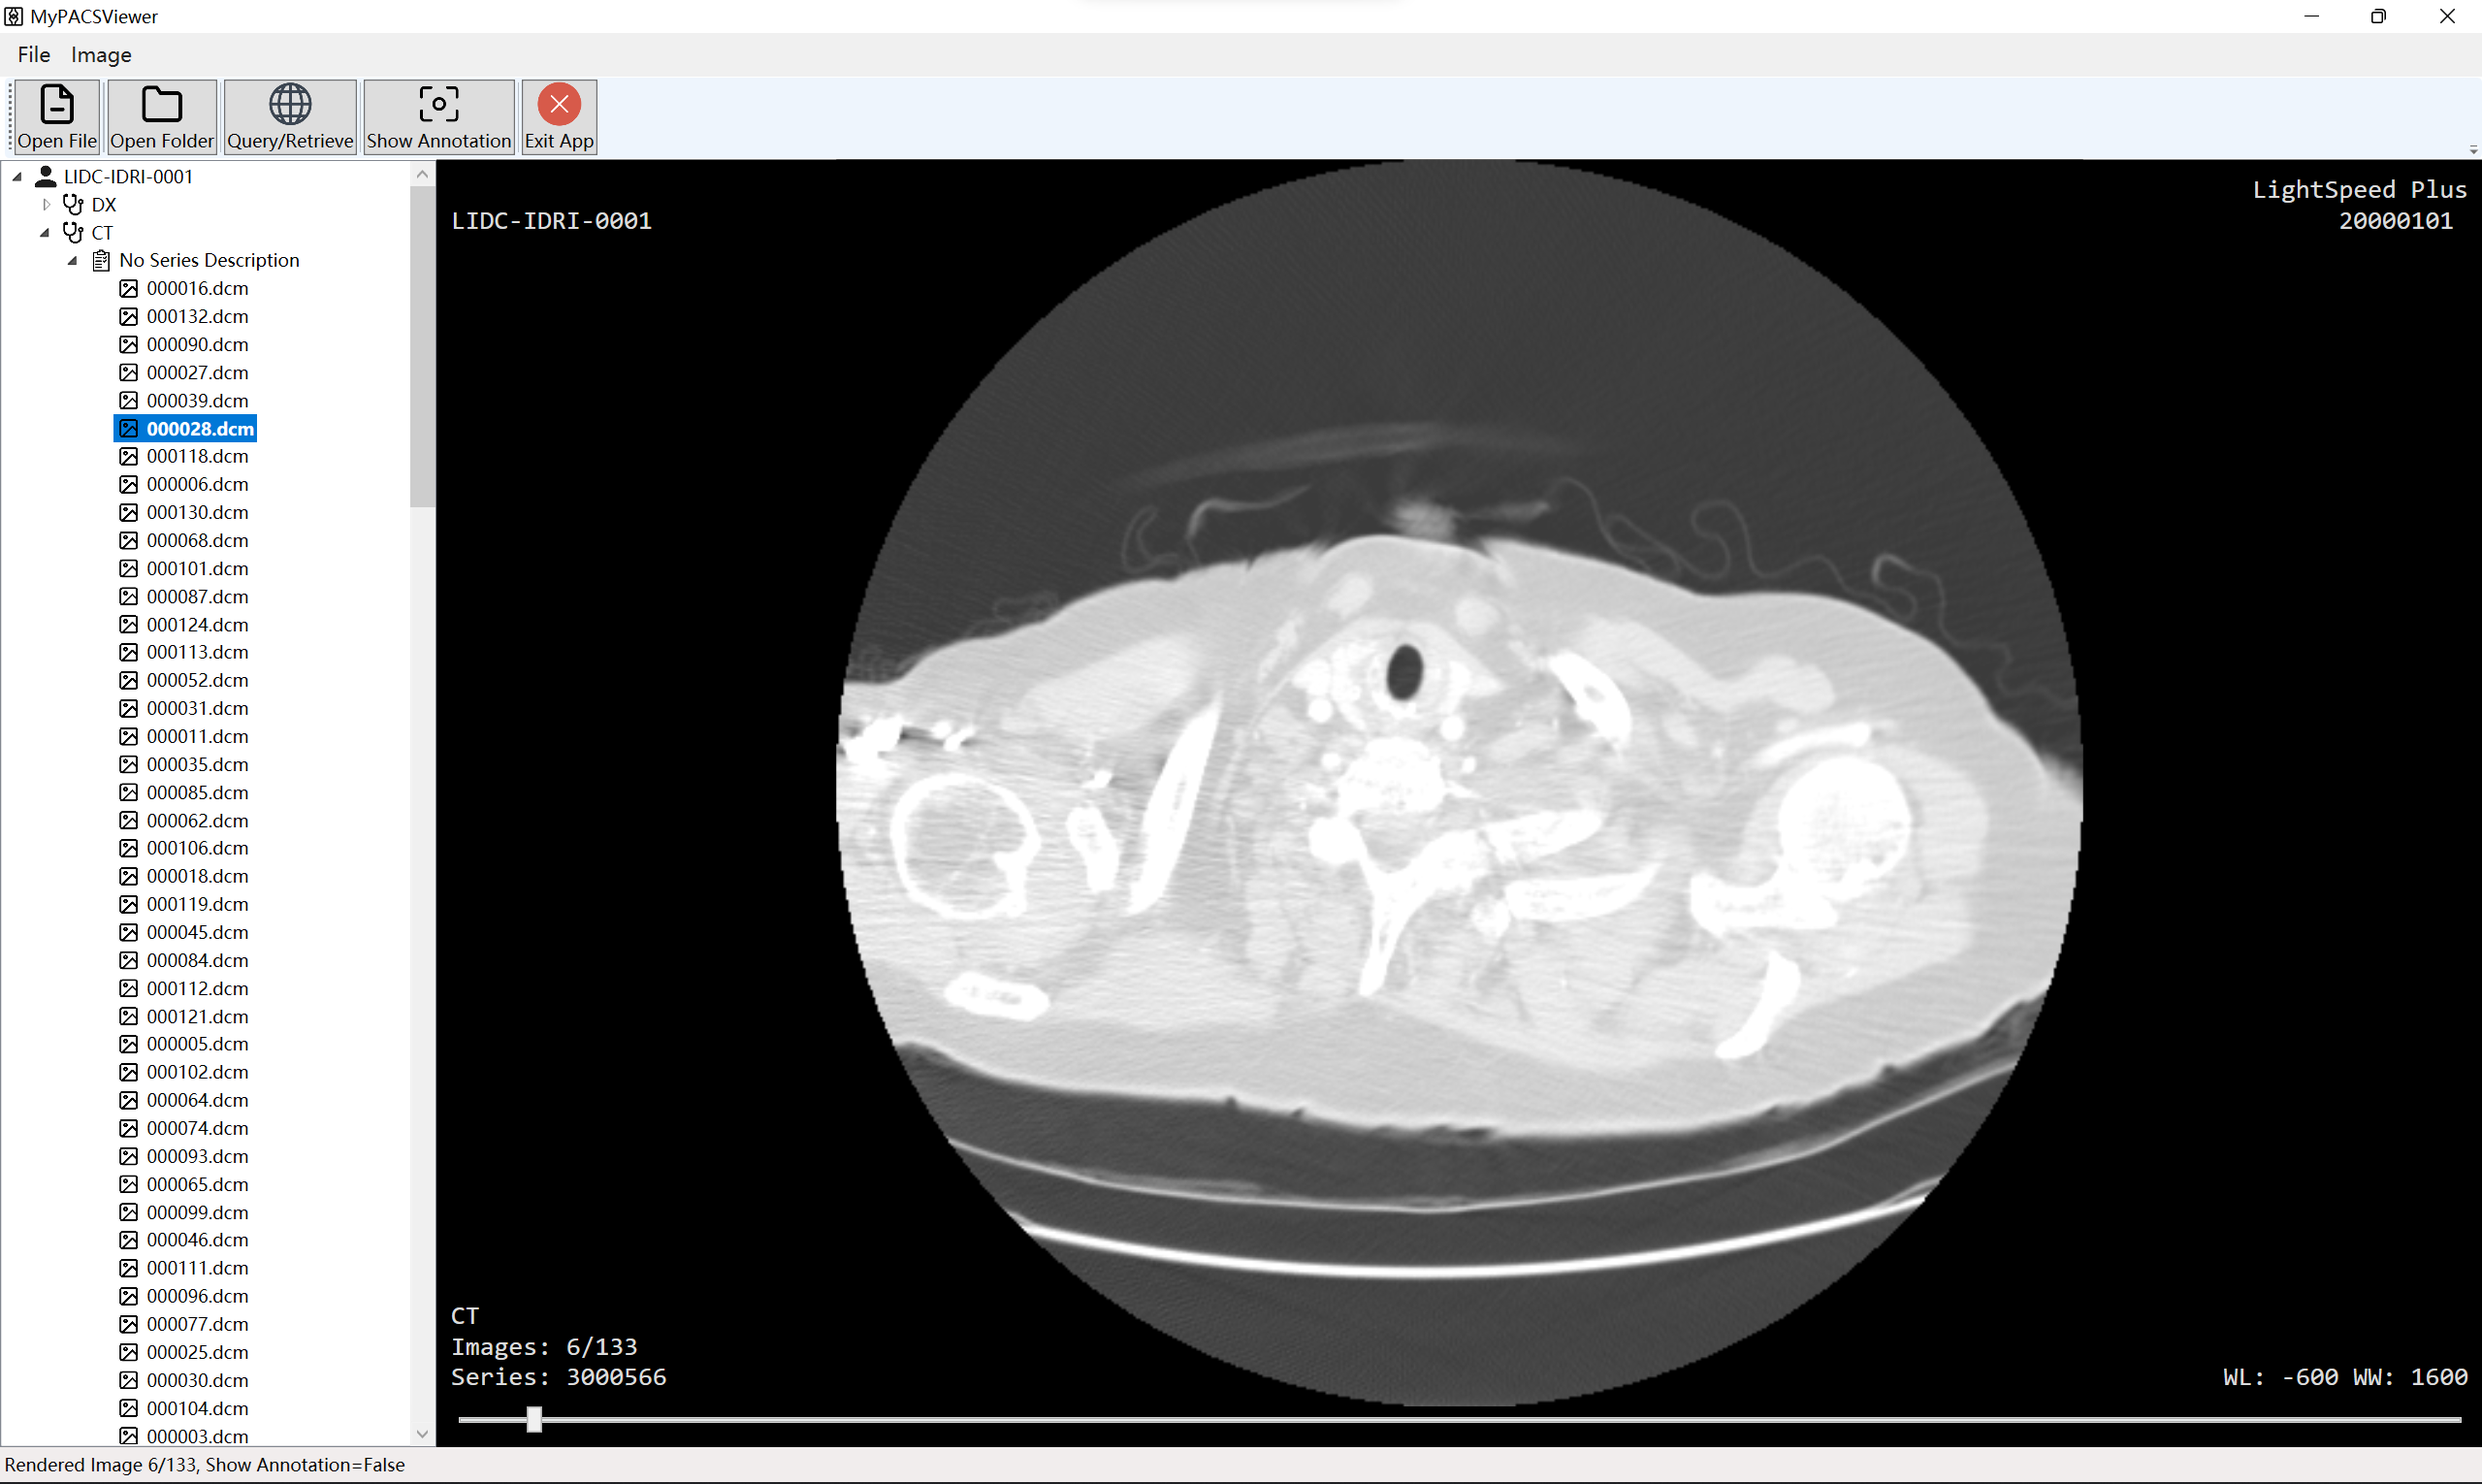
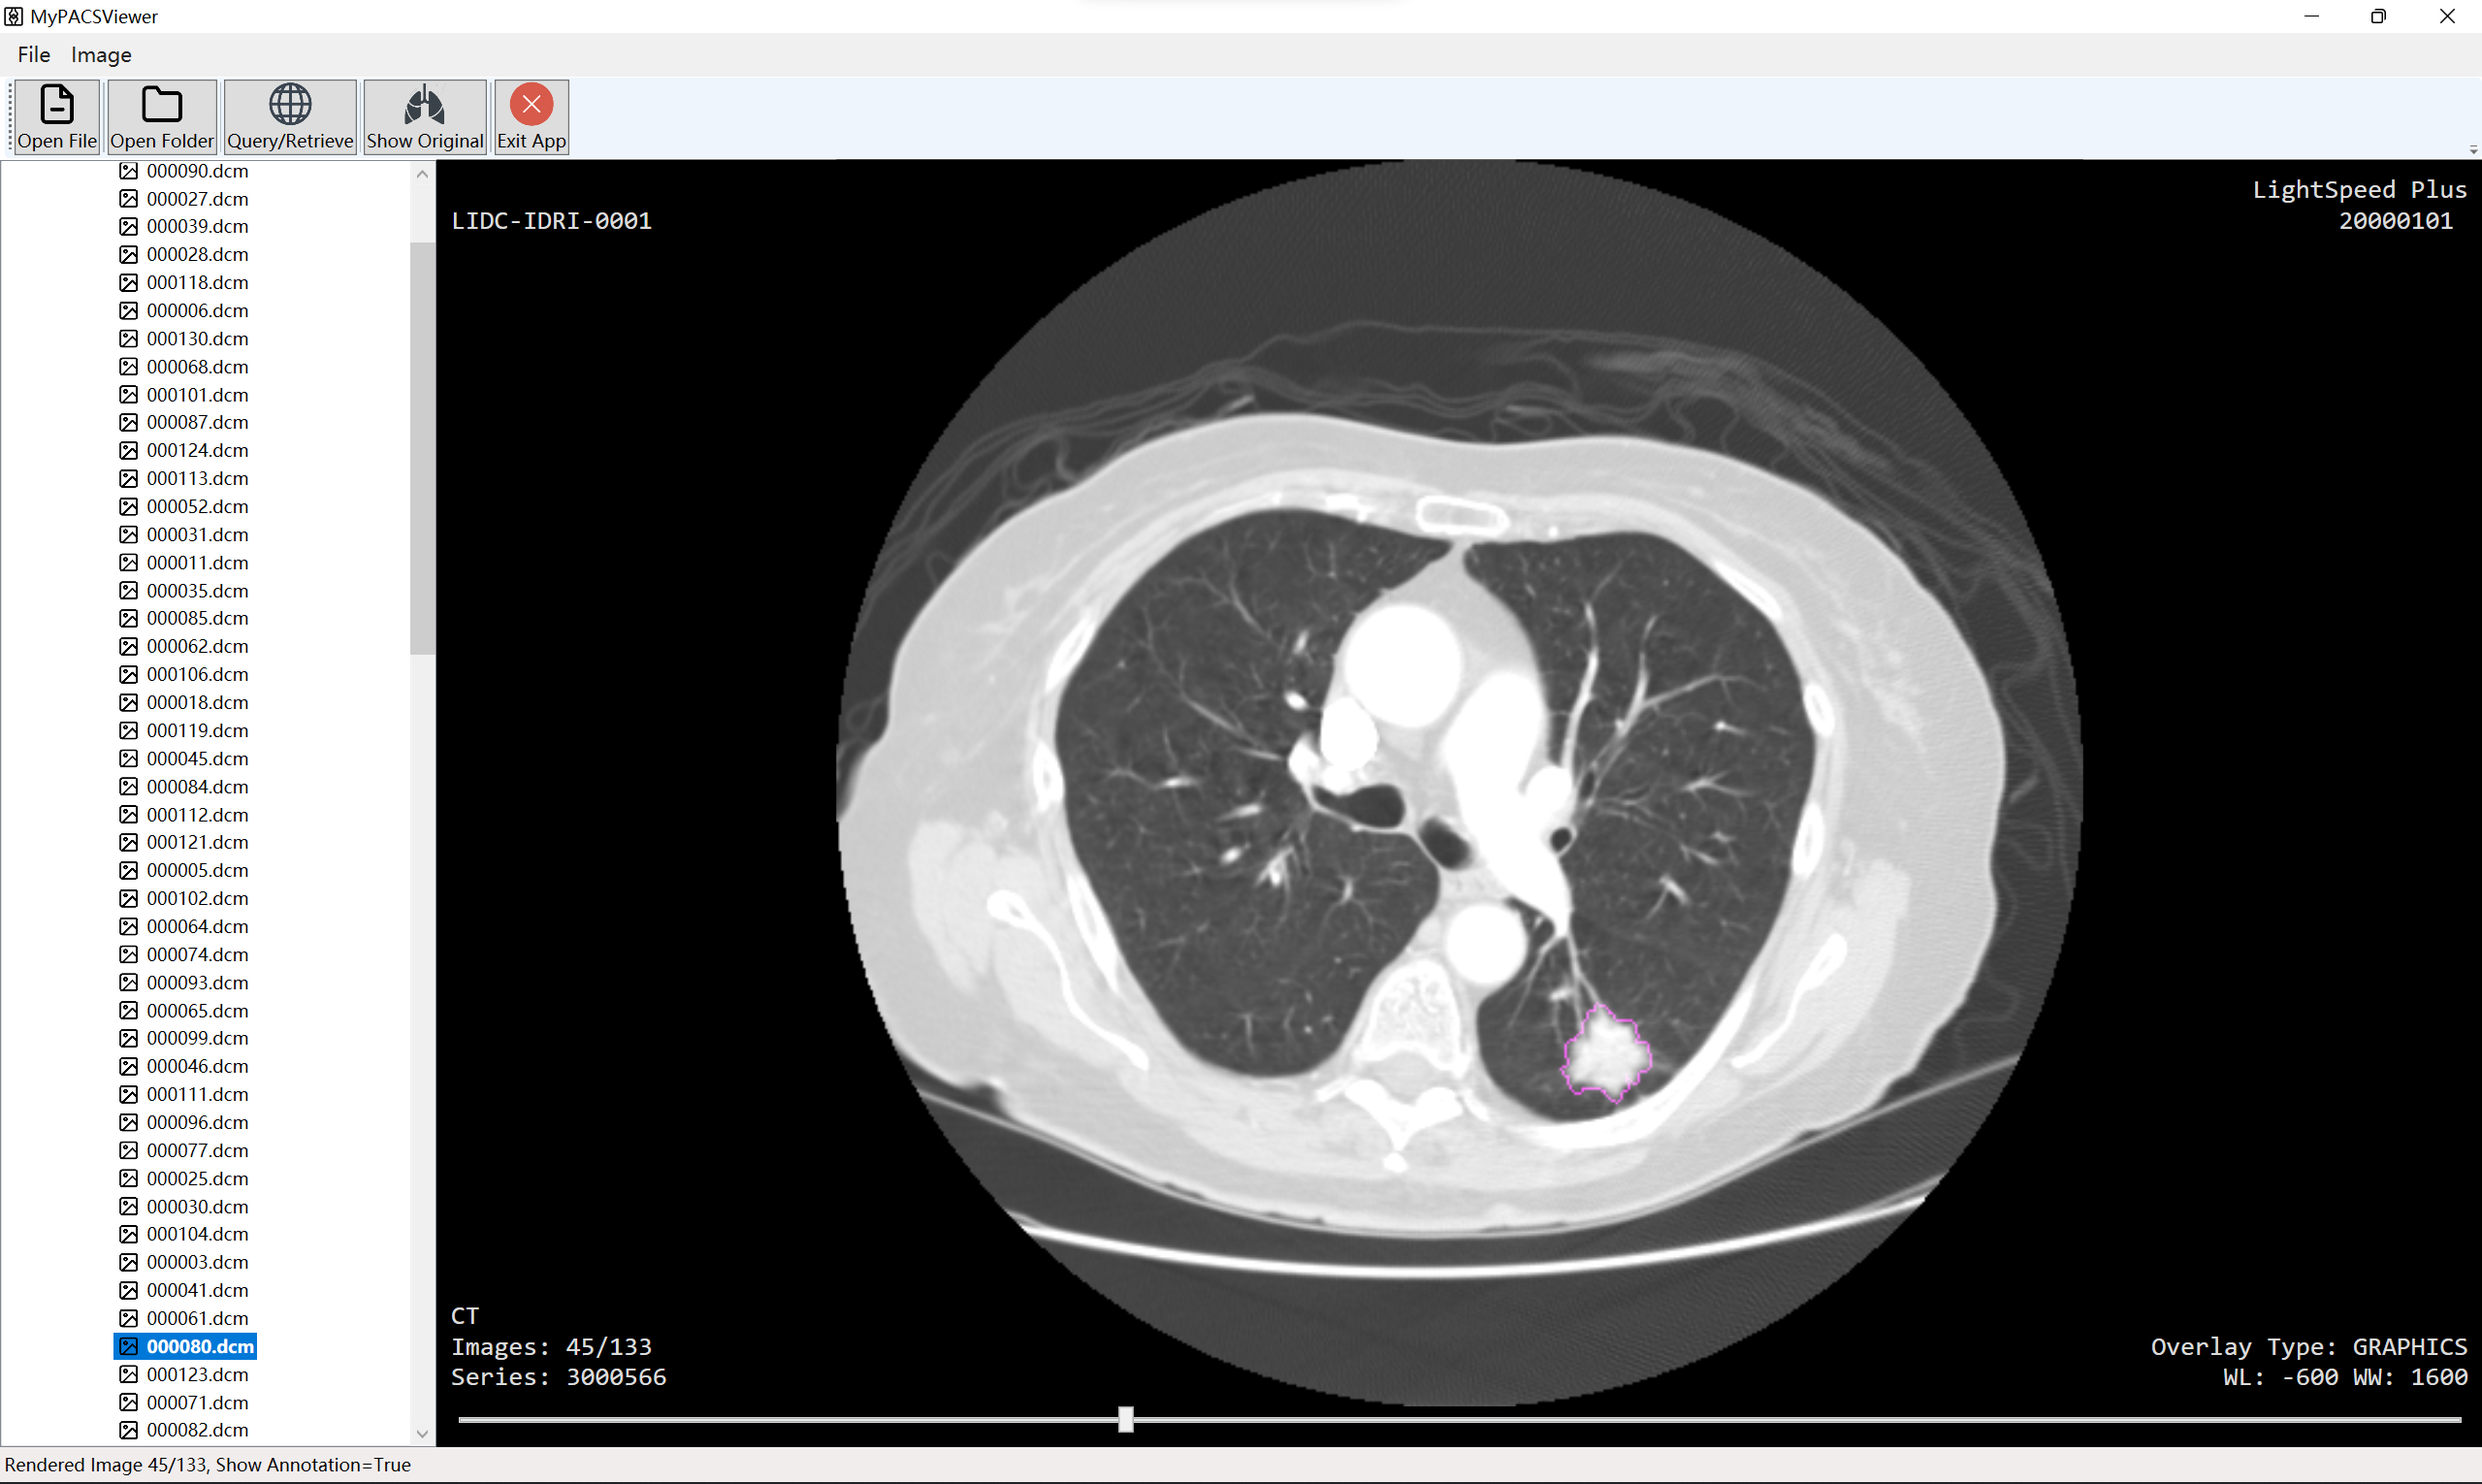
support single image (no series index)

diff --git a/MyPACSServer/adapter/lidc_adaper.py b/MyPACSServer/adapter/lidc_adaper.py
@@ -9,27 +9,26 @@ from .adapter_base import AdapterBase
 class LIDCAdapter(AdapterBase):
 
     @classmethod
-    def _parse_annotation(cls, dataset: Dataset, annotation_path: str):
+    def _parse_annotation(cls, dataset: Dataset, annotation_path: str) -> np.ndarray:
         tree = etree.parse(annotation_path, etree.XMLParser())
         root = tree.getroot()
         reading_session = root.find(path='readingSession', namespaces=root.nsmap)
         roi_list = reading_session.findall(
-            path=f'unblindedReadNodule[characteristics]/roi[imageSOP_UID="{dataset.SOPInstanceUID}"]',
+            f'unblindedReadNodule[characteristics]/roi[imageSOP_UID="{dataset.SOPInstanceUID}"]',
             namespaces=root.nsmap)
-        # print(dataset.SOPInstanceUID)
         annotation_array = np.zeros([dataset.Rows, dataset.Columns])
         for roi in roi_list:
             edgemap_list = roi.findall('edgeMap', namespaces=root.nsmap)
             for edgemap in edgemap_list:
-                xCoord_edgemap = edgemap.find('xCoord', namespaces=root.nsmap).text
-                yCoord_edgemap = edgemap.find('yCoord', namespaces=root.nsmap).text
-                annotation_array[int(yCoord_edgemap), int(xCoord_edgemap)] = 1
+                xCoord = edgemap.find('xCoord', namespaces=root.nsmap).text
+                yCoord = edgemap.find('yCoord', namespaces=root.nsmap).text
+                annotation_array[int(yCoord), int(xCoord)] = 1
         return annotation_array
 
     @classmethod
     def _get_overlay(cls, dataset: Dataset, annotation_path: str) -> Dataset:
         annotation = cls._parse_annotation(dataset, annotation_path)
-        elem_overlay_type = pydicom.DataElement(0x60000040, VR='CS', value='GRAPHICS ')
+        elem_overlay_type = pydicom.DataElement(0x60000040, VR='CS', value='GRAPHICS')
         dataset.add(elem_overlay_type)
         elem_overlay_rows = pydicom.DataElement(0x60000010, VR='US', value=dataset.Rows)
         dataset.add(elem_overlay_rows)

diff --git a/MyPACSViewer/MyPACSViewer/ViewModel/Viewer2DViewModel.cs b/MyPACSViewer/MyPACSViewer/ViewModel/Viewer2DViewModel.cs
@@ -119,7 +119,6 @@ namespace MyPACSViewer.ViewModel
             Messenger.Default.Register<bool>(this, Properties.Resources.messageKey_detect, OnChangeAnnotationMode);
             _isAnnotationMode = false;
         }
-
         private void RenderImage()
         {
             DicomImage image = new(_mainDataset);
@@ -144,7 +143,7 @@ namespace MyPACSViewer.ViewModel
                 $"Images: {SliderValue - SliderMin + 1}/{SliderMax - SliderMin + 1}\n" +
                 $"Series: {_mainDataset.GetSingleValueOrDefault(DicomTag.SeriesNumber, string.Empty)}";
 
-            RightBottomText = $"Overlay Type: {_mainDataset.GetSingleValueOrDefault(DicomTag.OverlayType,"None")}\n" +
+            RightBottomText = $"Overlay Type: {_mainDataset.GetSingleValueOrDefault(DicomTag.OverlayType, "None")}\n" +
                 $"WL: {_mainDataset.GetSingleValueOrDefault(DicomTag.WindowCenter, 0)} " +
                 $"WW: {_mainDataset.GetSingleValueOrDefault(DicomTag.WindowWidth, 0)}";
         }
@@ -242,8 +241,18 @@ namespace MyPACSViewer.ViewModel
             {
                 return;
             }
-            var query = from node in SeriesNode.Children.Values where node.Index == SliderValue select node;
-            FileNodeModel imageNode = query.First();
+
+            FileNodeModel imageNode;
+            if (SeriesNode.Children.Count == 1)
+            {
+                imageNode = SeriesNode.Children.Values.First();
+            }
+            else
+            {
+                var query = from node in SeriesNode.Children.Values where node.Index == SliderValue select node;
+                imageNode = query.First();
+            }
+
             _mainDataset = DicomFile.Open(imageNode.Path).Dataset;
             if (_isAnnotationMode)
             {

diff --git a/MyPACSServer/server.py b/MyPACSServer/server.py
@@ -44,6 +44,8 @@ class MyPACSServer(AE):
         # init logger
         logging.config.dictConfig(config['logger'])
         self.logger = logging.getLogger('MyPACSLogger')
+
+        # init adapter
         self.adapter_dict = {k: getattr(adapter, v, None) for k, v in config['adapters'].items()}
 
     def run(self):
